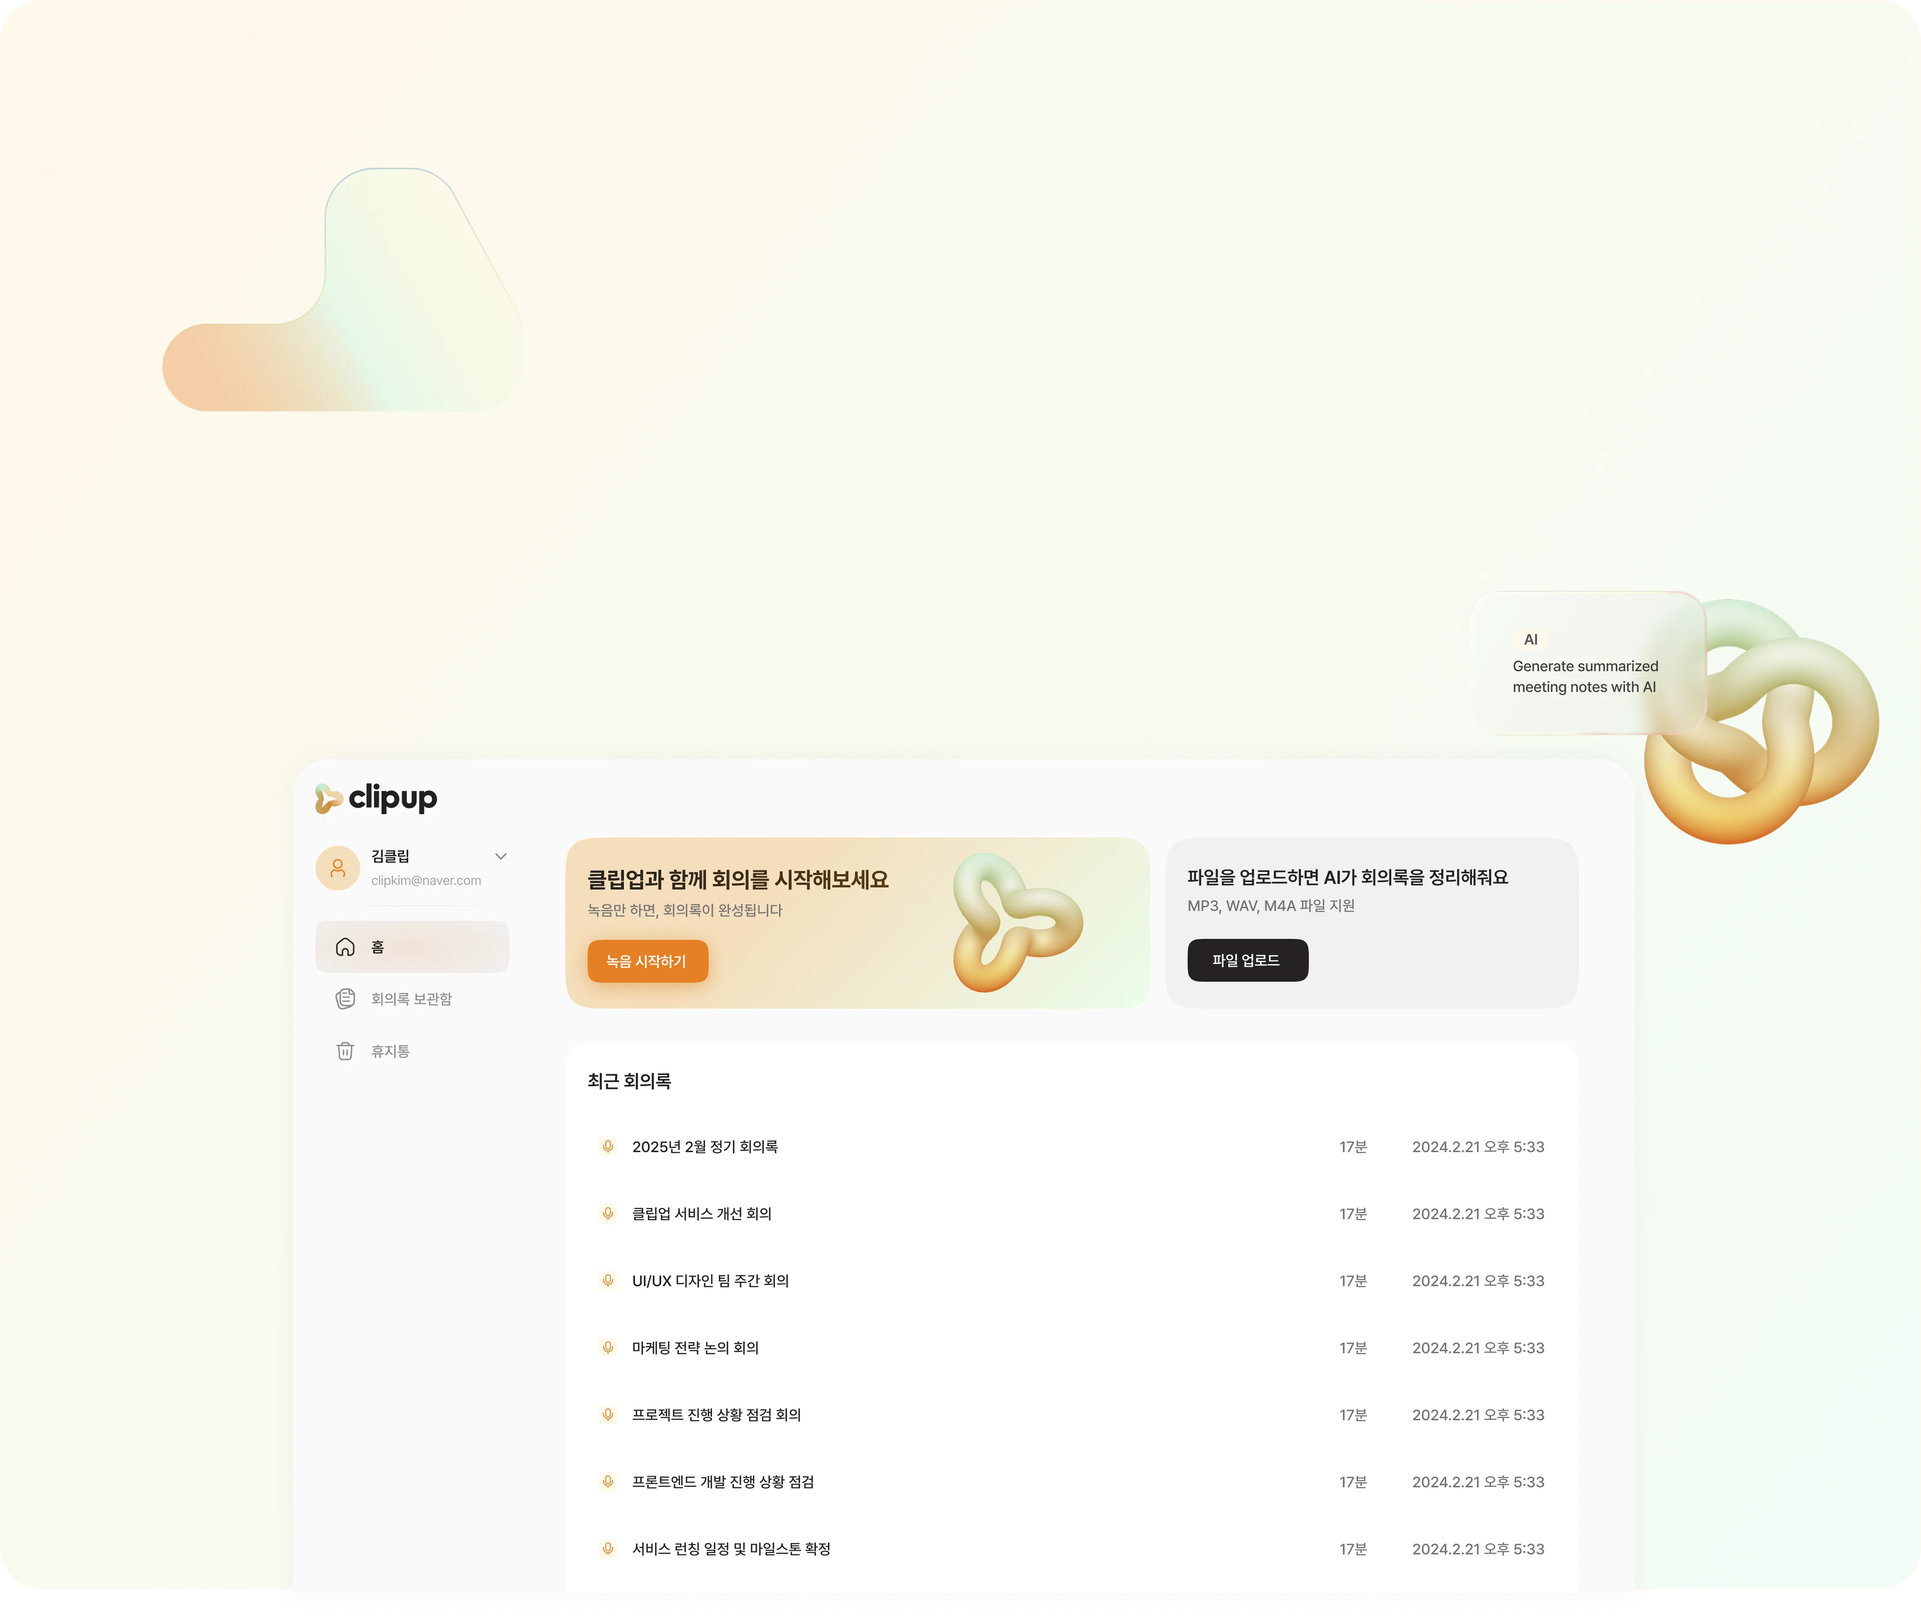
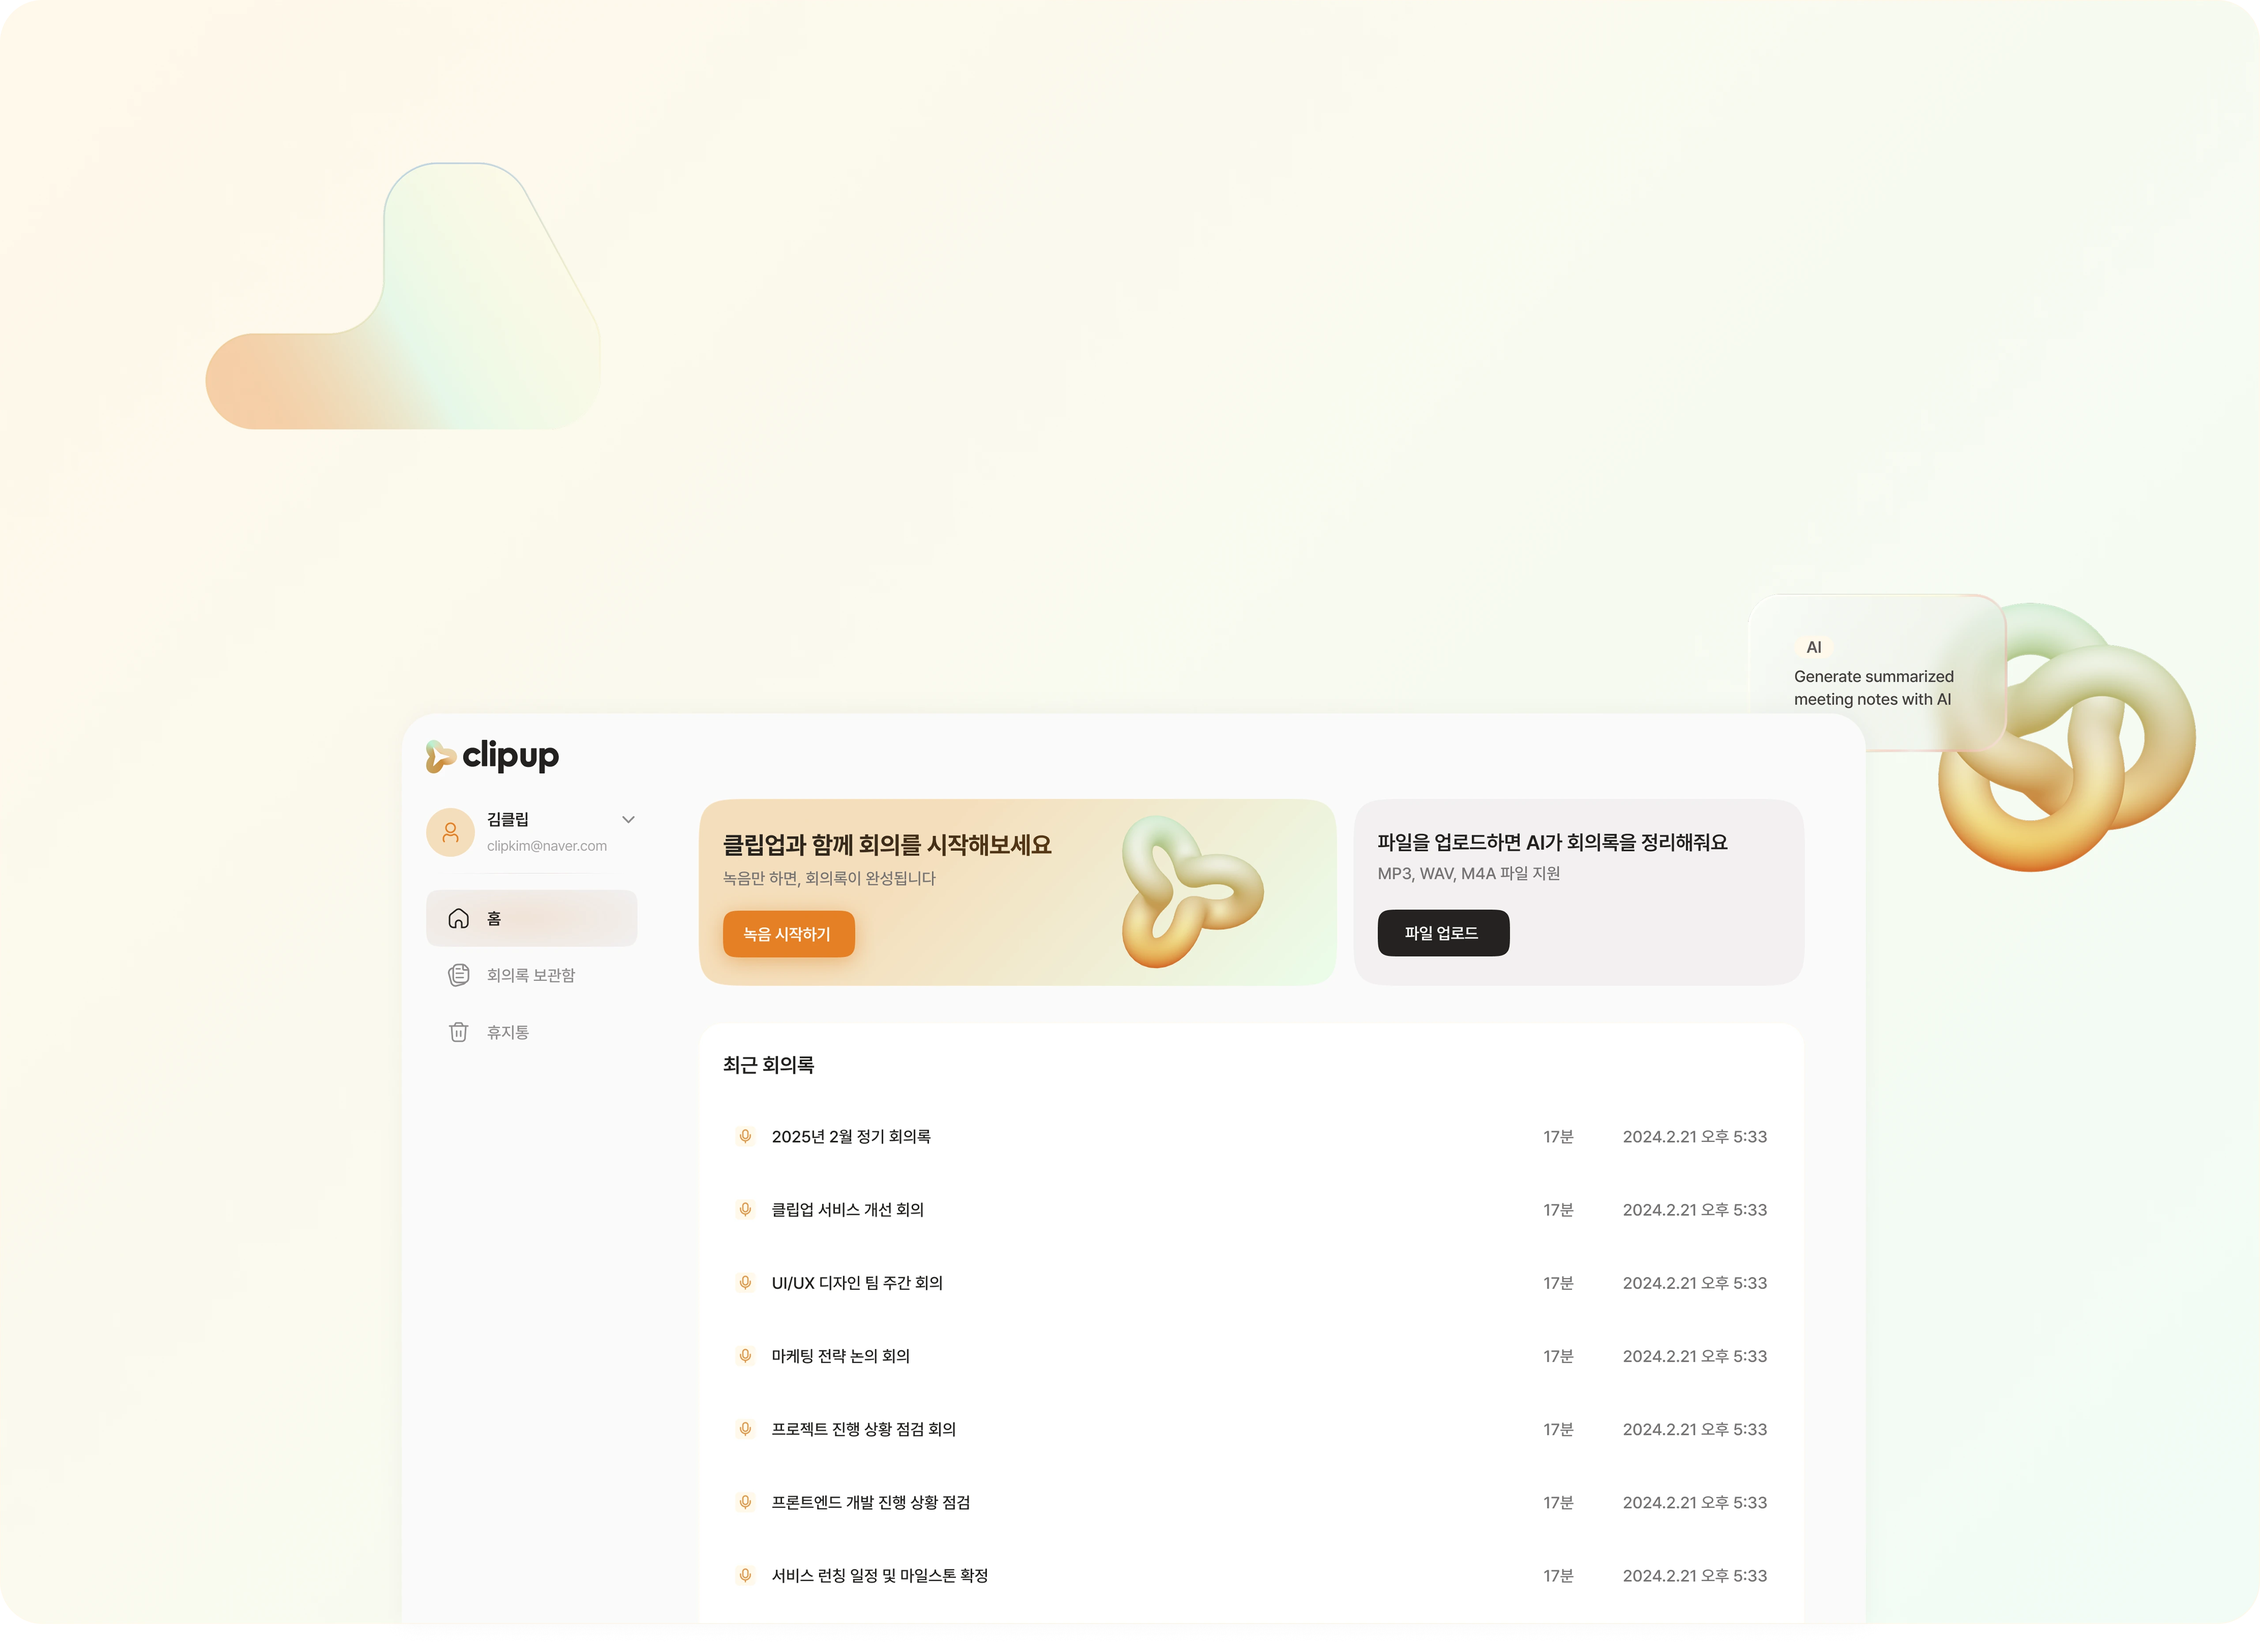
feat: 반응형 비로그인

diff --git a/app/src/components/layout/layout.scss b/app/src/components/layout/layout.scss
@@ -1,6 +1,10 @@
 header {
 	width: 100%;
-	height: 64px;
+	min-height: 84px;
+	padding-left: 24px;
+	padding-right: 30px;
+	padding-top: 26px;
+	box-sizing: border-box;
 	background-color: transparent;
 	display: flex;
 	align-items: start;
@@ -13,27 +17,54 @@ header {
 }
 
 main {
-	width: 100%;
 	display: flex;
-	background-color: var(--grey-50);
-	flex: 1;
 
 	> aside {
-		min-width: 208px;
-		background-color: var(--grey-50);
+		min-width: 232px;
+		max-width: 100%;
+		min-height: 900px;
+
+		padding-left: 24px;
+		box-sizing: border-box;
 	}
 	> section {
 		min-width: 1088px;
-		flex-grow: 1;
 		background-color: transparent;
-		padding: 0 60px;
-		box-sizing: border-box;
+		margin: 0 60px;
 		border-radius: var(--scale-24);
 	}
 }
 
 footer {
 	width: 100%;
-	height: 36px;
+	min-height: 40px;
 	background-color: transparent;
+}
+
+@media (min-width: 1440px) and (max-width: 1919px) {
+}
+
+@media (min-width: 1920px) {
+	header {
+		min-height: 80px;
+	}
+
+	main {
+		> aside {
+			min-width: 272px;
+			max-width: 100%;
+
+			padding-left: 32px;
+		}
+		> section {
+			min-width: 1280px;
+			min-height: 920px;
+			margin: 0 184px;
+			border-radius: var(--scale-24);
+		}
+	}
+
+	footer {
+		min-height: 80px;
+	}
 }

diff --git a/app/src/components/pages/error/unauthorized.scss b/app/src/components/pages/error/unauthorized.scss
@@ -1,18 +1,18 @@
 #unauthorized_page {
 	width: 100%;
-	> div {
-		min-width: 1024px;
-		background-color: transparent;
-		background-size: 100% auto;
-		background-repeat: no-repeat;
-		background-position: top;
-		display: flex;
-		flex-direction: column;
-		align-items: center;
-	}
+	background-image: url('../../../assets/img/1440/landing.webp');
+	background-color: transparent;
+	background-size: 100% auto;
+	background-repeat: no-repeat;
+	background-position: top;
+	display: flex;
+	flex-direction: column;
+	align-items: center;
+	user-select: none;
+
 	.text {
 		background: linear-gradient(92.26deg, var(--primary-900) -13.84%, var(--grey-900) 75.15%, var(--secondary-600) 99.53%);
-		margin-top: 12%;
+		margin-top: 128px;
 		margin-bottom: 32px;
 		background-clip: text;
 		-webkit-background-clip: text;
@@ -46,6 +46,19 @@
 
 		svg {
 			margin-left: 6px;
+		}
+	}
+}
+
+@media (min-width: 1440px) and (max-width: 1919px) {
+}
+
+@media (min-width: 1920px) {
+	#unauthorized_page {
+		background-image: url('../../../assets/img/landing.webp');
+
+		.text {
+			margin-top: 92px;
 		}
 	}
 }

diff --git a/app/src/components/pages/error/Unauthorized.jsx b/app/src/components/pages/error/Unauthorized.jsx
@@ -12,7 +12,6 @@ const Unauthorized = () => {
 
 	return (
 		<section id="unauthorized_page">
-			<div style={{ backgroundImage: `url(${Landing})`, height: window.innerHeight - 84 }}>
 				<span className="text">
 					<p className="text-s">
 						<span>
@@ -38,7 +37,6 @@ const Unauthorized = () => {
 						<path d="M3.5 12H20.33" stroke="var(--white)" strokeWidth="1.5" strokeMiterlimit="10" strokeLinecap="round" strokeLinejoin="round"/>
 					</svg>
 				</Button>
-			</div>
 		</section>
 	);
 }

diff --git a/app/src/index.scss b/app/src/index.scss
@@ -53,17 +53,14 @@
 }
 
 body {
-  margin: 0;
-  display: flex;
-  // place-items: center;
-  // min-width: 1440px;
-  // min-height: 1024px;
   width: 100%;
   height: 100%;
-  margin-top: 0;
-  margin-bottom: 0;
-  padding: 26px 0 0 24px;
-  box-sizing: border-box;
+
+  background-color: var(--grey-50);
+
+  margin: 0;
+
+  display: flex;
 }
 
 button {
